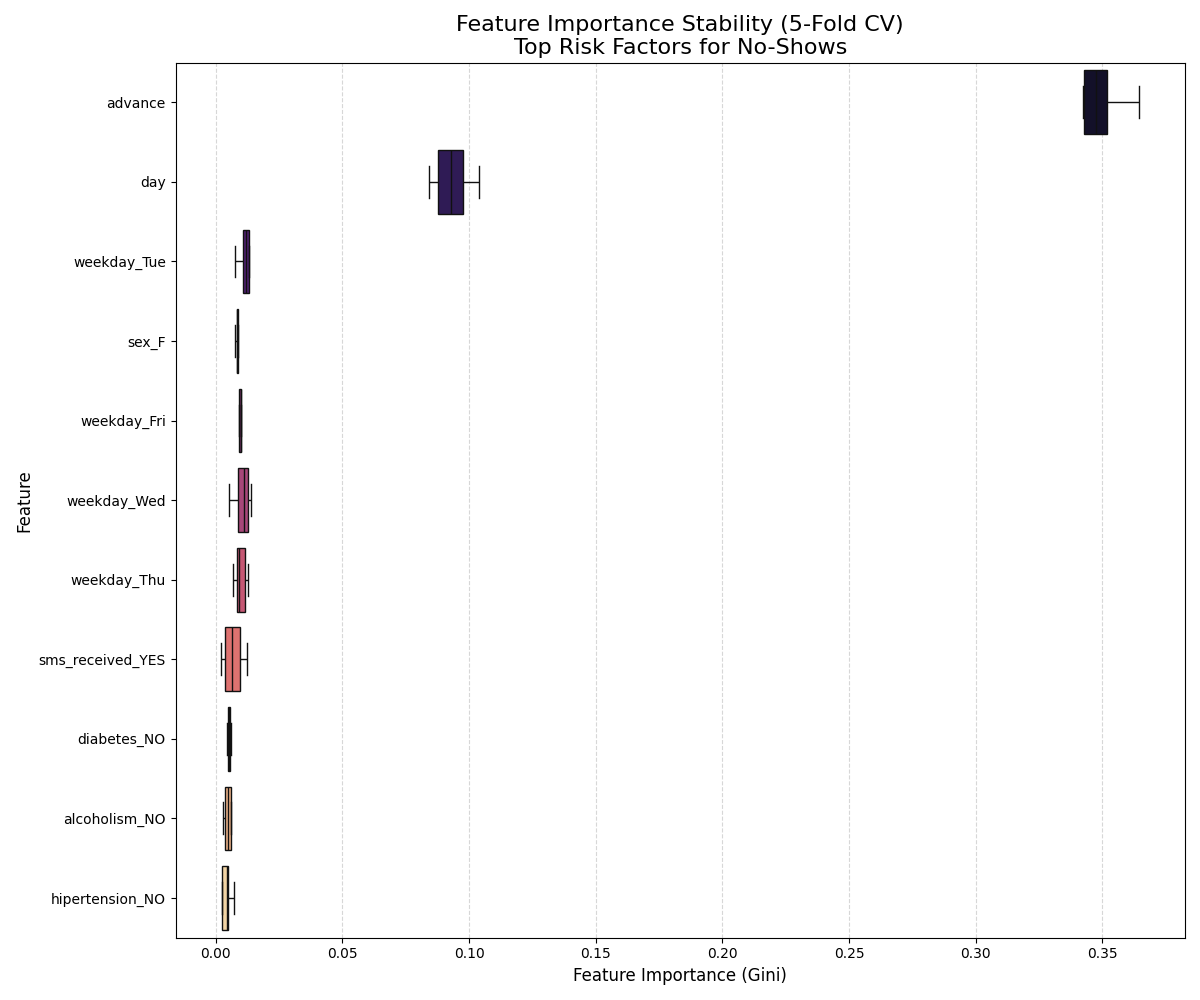
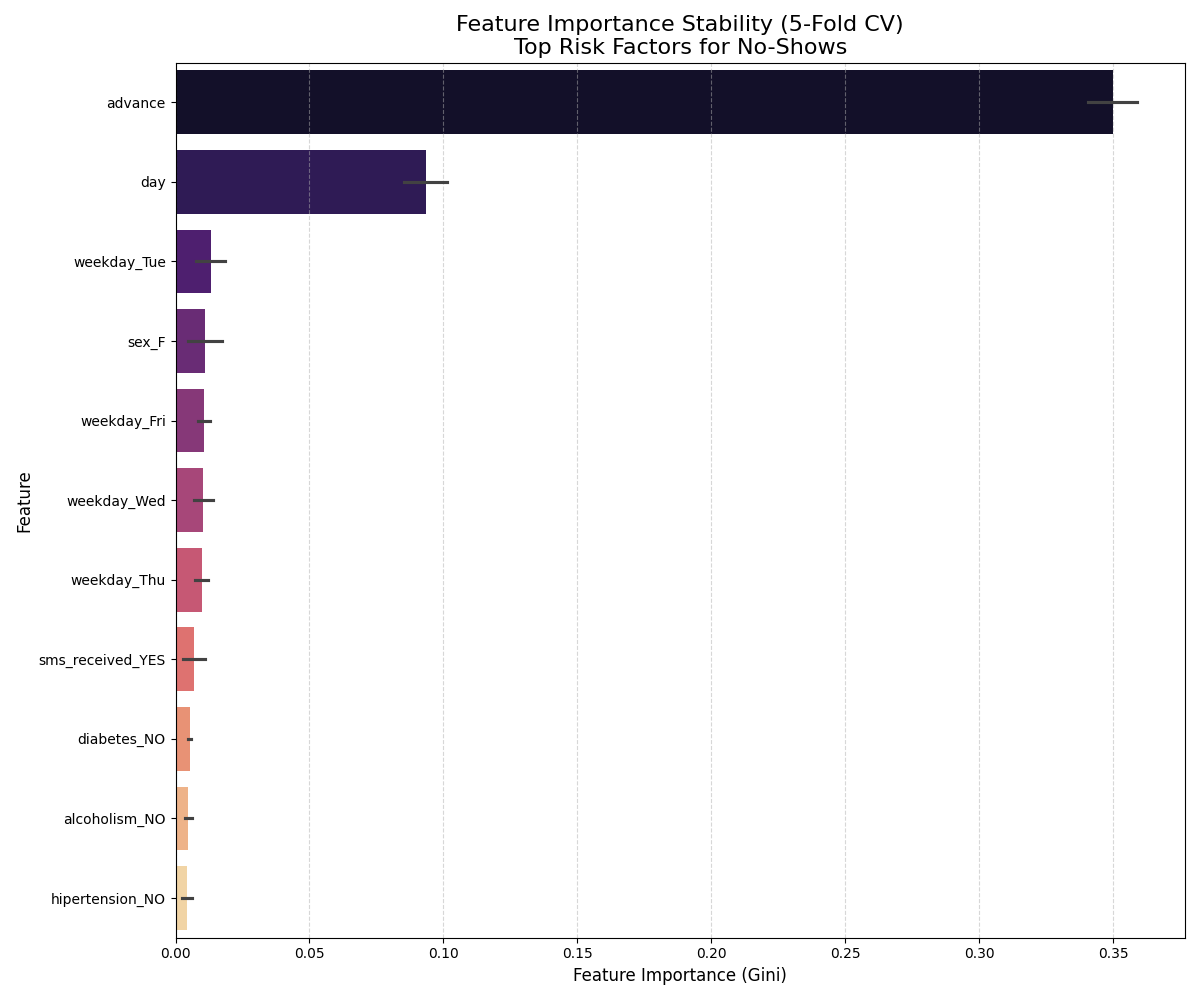
Modify Task3 - add barchart with errorbar

diff --git a/scripts/task3.py b/scripts/task3.py
@@ -281,48 +281,6 @@ def plot_pr_curves_cross_val(rng, cv, x, y, preprocessor):
     plt.savefig(plot_path)
     print(f"PR Curve plot saved to: {plot_path}")
 
-def plot_feature_impact(df, preprocessor, cat_cols, num_cols):
-    
-    y = df["status"]
-    X_raw = df.drop(columns=["status"])
-    
-    # Fit the pipeline
-    X_processed = preprocessor.fit_transform(X_raw)
-        
-    # Now access named_transformers_ on the correct object
-    cat_names = preprocessor.named_steps['preprocessor'].named_transformers_['cat'].get_feature_names_out(cat_cols)
-    feature_names = list(cat_names) + num_cols
-    
-    # Train Best Model
-    clf = GradientBoostingClassifier(n_estimators=100, learning_rate=0.5, max_depth=4, random_state=31)
-    clf.fit(X_processed, y)
-    
-    # Calculate Impact & Direction
-    importances = clf.feature_importances_
-    X_dense = X_processed.toarray() if hasattr(X_processed, "toarray") else X_processed
-    correlations = [np.corrcoef(X_dense[:, i], y)[0, 1] for i in range(X_dense.shape[1])]
-    
-    impact_df = pd.DataFrame({
-        'Feature': feature_names,
-        'Importance': importances,
-        'Correlation': correlations
-    })
-    
-    # Filter: Only keep features that DRIVE No-Shows (Positive Correlation)
-    impact_df = impact_df[impact_df['Correlation'] > 0].sort_values(by='Importance', ascending=True)
-    
-    plt.figure(figsize=(10, 8))
-    plt.barh(impact_df['Feature'], impact_df['Importance'])
-    
-    plt.title("Top Risk Factors for No-Shows (Positive Drivers Only)", fontsize=14)
-    plt.xlabel("Feature Importance (Gini)", fontsize=12)
-    plt.grid(axis='x', linestyle='--', alpha=0.5)
-    
-    plt.tight_layout()
-    plot_path = os.path.join(results_dir, "feature_impact_noshow_only.png")
-    plt.savefig(plot_path)
-    print(f"Plot saved to: {plot_path}")
-
 def plot_feature_importance_cv(df, preprocessor, cat_cols, num_cols):
     
     y = df["status"]
@@ -376,7 +334,16 @@ def plot_feature_importance_cv(df, preprocessor, cat_cols, num_cols):
 
     # --- Plotting ---
     plt.figure(figsize=(12, 10))
-    sns.boxplot(data=plot_df, x='Importance', y='Feature', order=order, palette='magma', showfliers=False)
+    sns.barplot(
+        data=plot_df, 
+        x='Importance', 
+        y='Feature', 
+        order=order, 
+        palette='magma', 
+        errorbar='sd' 
+    )
+    
+    plt.title("Feature Importance (Mean ± Std Dev)", fontsize=16)
 
     plt.title("Feature Importance Stability (5-Fold CV)\nTop Risk Factors for No-Shows", fontsize=16)
     plt.xlabel("Feature Importance (Gini)", fontsize=12)
@@ -535,7 +502,7 @@ if __name__ == "__main__":
     filepath = os.path.join(data_dir, "appointments.tar.xz")
     output_dir = os.path.join(processed_dir, "appointments")
     os.makedirs(results_dir, exist_ok=True)
-    os.makedirs(output_dir, exist_ok=True) # Creates project/processed/appointments
+    os.makedirs(output_dir, exist_ok=True) 
     
     print(f"Extraction target: {output_dir}")
 
@@ -554,16 +521,16 @@ if __name__ == "__main__":
     # gradient_boosted_grid_search(rng, cv, x, y, preprocessor)
     # knn_grid_search(cv, x, y, preprocessor)
 
-    # results_df = best_hyperparam_run(rng, cv, x, y, preprocessor)
+    results_df = best_hyperparam_run(rng, cv, x, y, preprocessor)
 
-    # pd.set_option('display.float_format', lambda x: '%.4f' % x)
-    # print(results_df.sort_values(by="Mean F1 Score", ascending=False).to_markdown(index=False))
+    pd.set_option('display.float_format', lambda x: '%.4f' % x)
+    print(results_df.sort_values(by="Mean F1 Score", ascending=False).to_markdown(index=False))
 
-    # plot_pr_curves_cross_val(rng, cv, x, y, preprocessor)
-    # plot_feature_importance_cv(combined_df_processed, preprocessor, cat_cols, num_cols)
-    #plot_pooled_confusion_matrix(rng, cv, x, y, preprocessor)
+    plot_pr_curves_cross_val(rng, cv, x, y, preprocessor)
+    plot_feature_importance_cv(combined_df_processed, preprocessor, cat_cols, num_cols)
+    plot_pooled_confusion_matrix(rng, cv, x, y, preprocessor)
     plot_learning_curves(rng, cv, x, y, preprocessor)
-    # results_df_ensemble = run_ensemble_improvements(rng, cv, x, y, preprocessor)
+    results_df_ensemble = run_ensemble_improvements(rng, cv, x, y, preprocessor)
     
-    # print("\n--- Final Results ---")
-    # print(results_df_ensemble.sort_values(by="Avg Precision (AP)", ascending=False).to_markdown(index=False))
+    print("\n--- Final Results ---")
+    print(results_df_ensemble.sort_values(by="Avg Precision (AP)", ascending=False).to_markdown(index=False))
